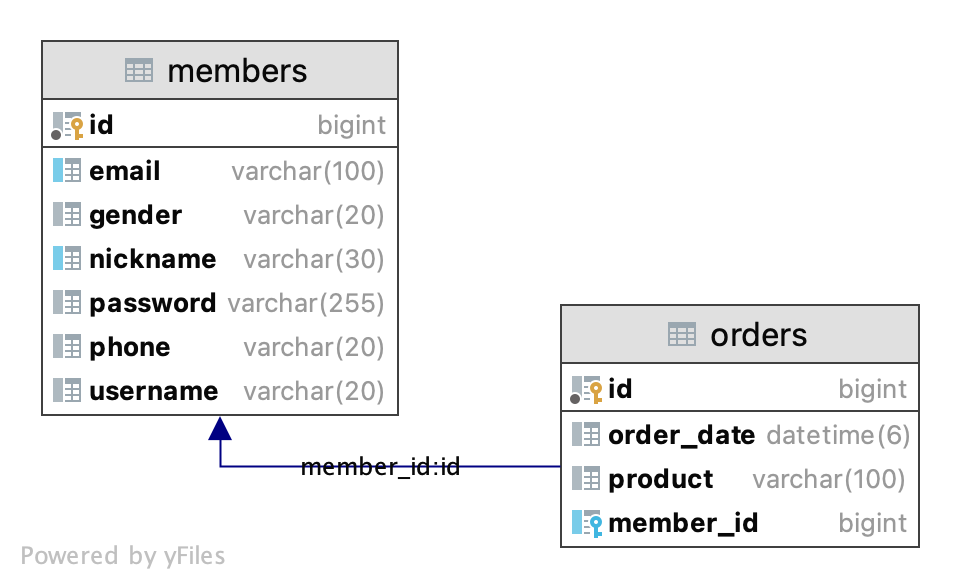
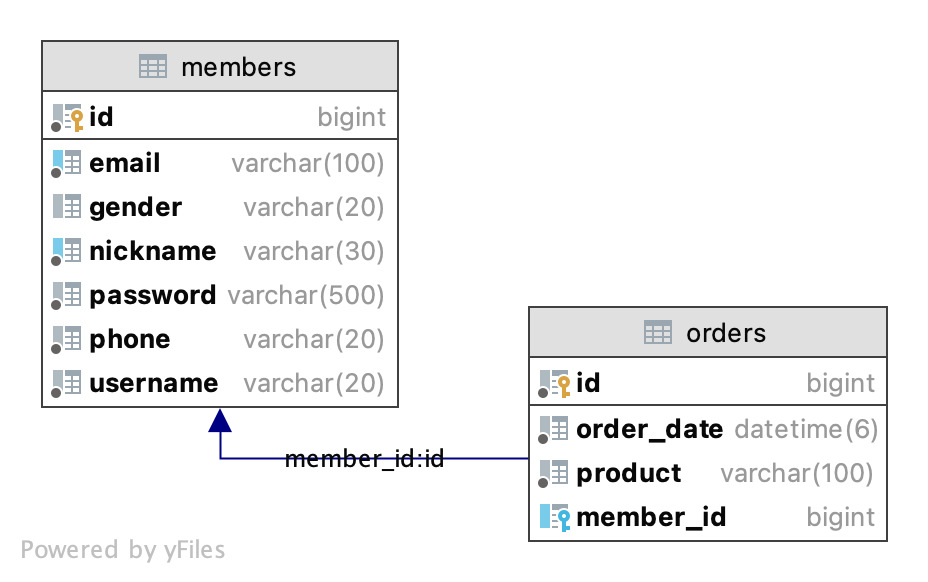
column nullable

Changed region(s): [[0.0312, 0.0619, 0.9688, 0.9588], [0.0312, 0.9278, 0.25, 0.9588]]

diff --git a/src/main/java/com/nubiform/order/domain/Member.java b/src/main/java/com/nubiform/order/domain/Member.java
@@ -23,18 +23,19 @@ public class Member {
     @GeneratedValue(strategy = GenerationType.IDENTITY)
     private Long id;
 
-    @Column(length = 20)
+    @Column(length = 20, nullable = false)
     private String username;
 
-    @Column(unique = true, length = 30)
+    @Column(length = 30, nullable = false, unique = true)
     private String nickname;
 
+    @Column(length = 500, nullable = false)
     private String password;
 
-    @Column(length = 20)
+    @Column(length = 20, nullable = false)
     private String phone;
 
-    @Column(unique = true, length = 100)
+    @Column(length = 100, nullable = false, unique = true)
     private String email;
 
     @Column(length = 20)

diff --git a/src/main/java/com/nubiform/order/domain/Order.java b/src/main/java/com/nubiform/order/domain/Order.java
@@ -19,9 +19,10 @@ public class Order {
     @GeneratedValue(strategy = GenerationType.IDENTITY)
     private Long id;
 
-    @Column(length = 100)
+    @Column(length = 100, nullable = false)
     private String product;
 
+    @Column(nullable = false)
     private LocalDateTime orderDate;
 
     @ManyToOne
